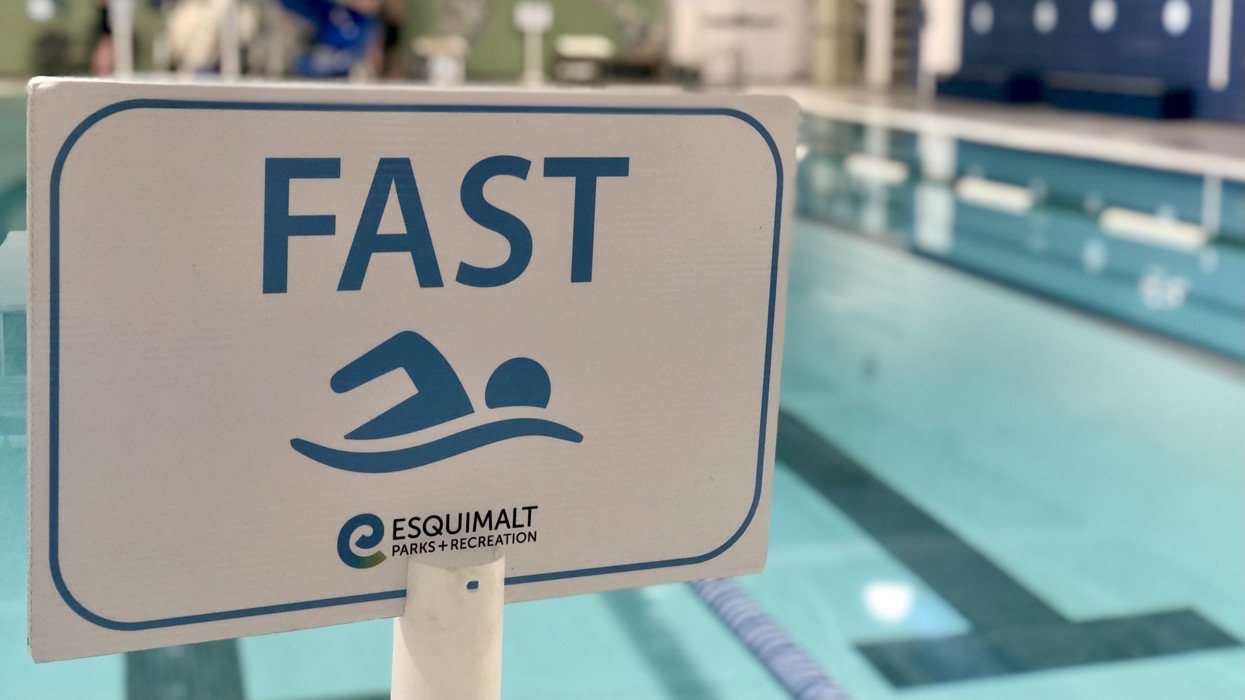
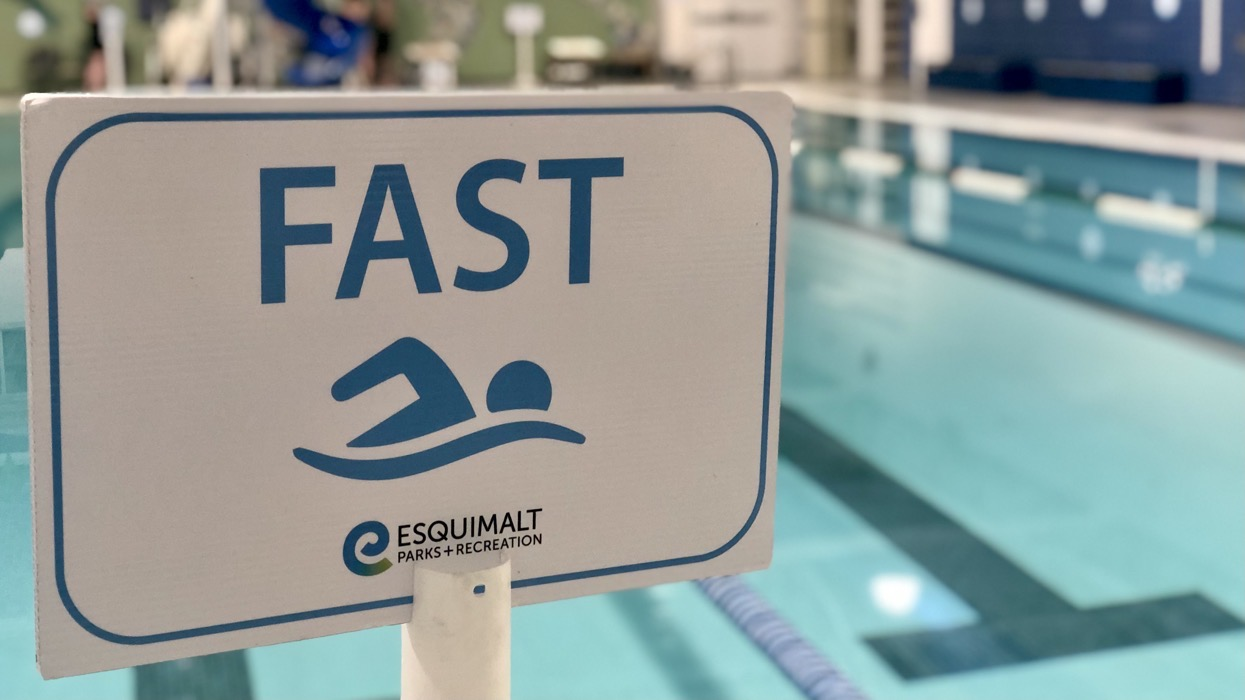
Training log update

diff --git a/content/traininglog/20210117-ironman2021-32weeksout.md b/content/traininglog/20210117-ironman2021-32weeksout.md
@@ -11,7 +11,7 @@ I feel I like was...
 <sup>(completed at the end of the week)</sup>
 <!--OVERTRAINING|ON THE EDGE|STAYING CONSISTENT|LAGGING A BIT-->
 
-![First time in the "Fast Lane" though to be honest, it is all relative.](/assets/jpg/IMG_3069-977x550.jpeg Esquimalt Recreation Centre)
+![First time in the "Fast Lane" though to be honest, it is all relative.](/assets/jpg/IMG_3069-977x550.jpeg?v2 Esquimalt Recreation Centre)
 
 ## SUNDAY JAN 17 🌤
 Sleep **4** | Fatigue **5** | Stress **2** | Soreness **3**  
